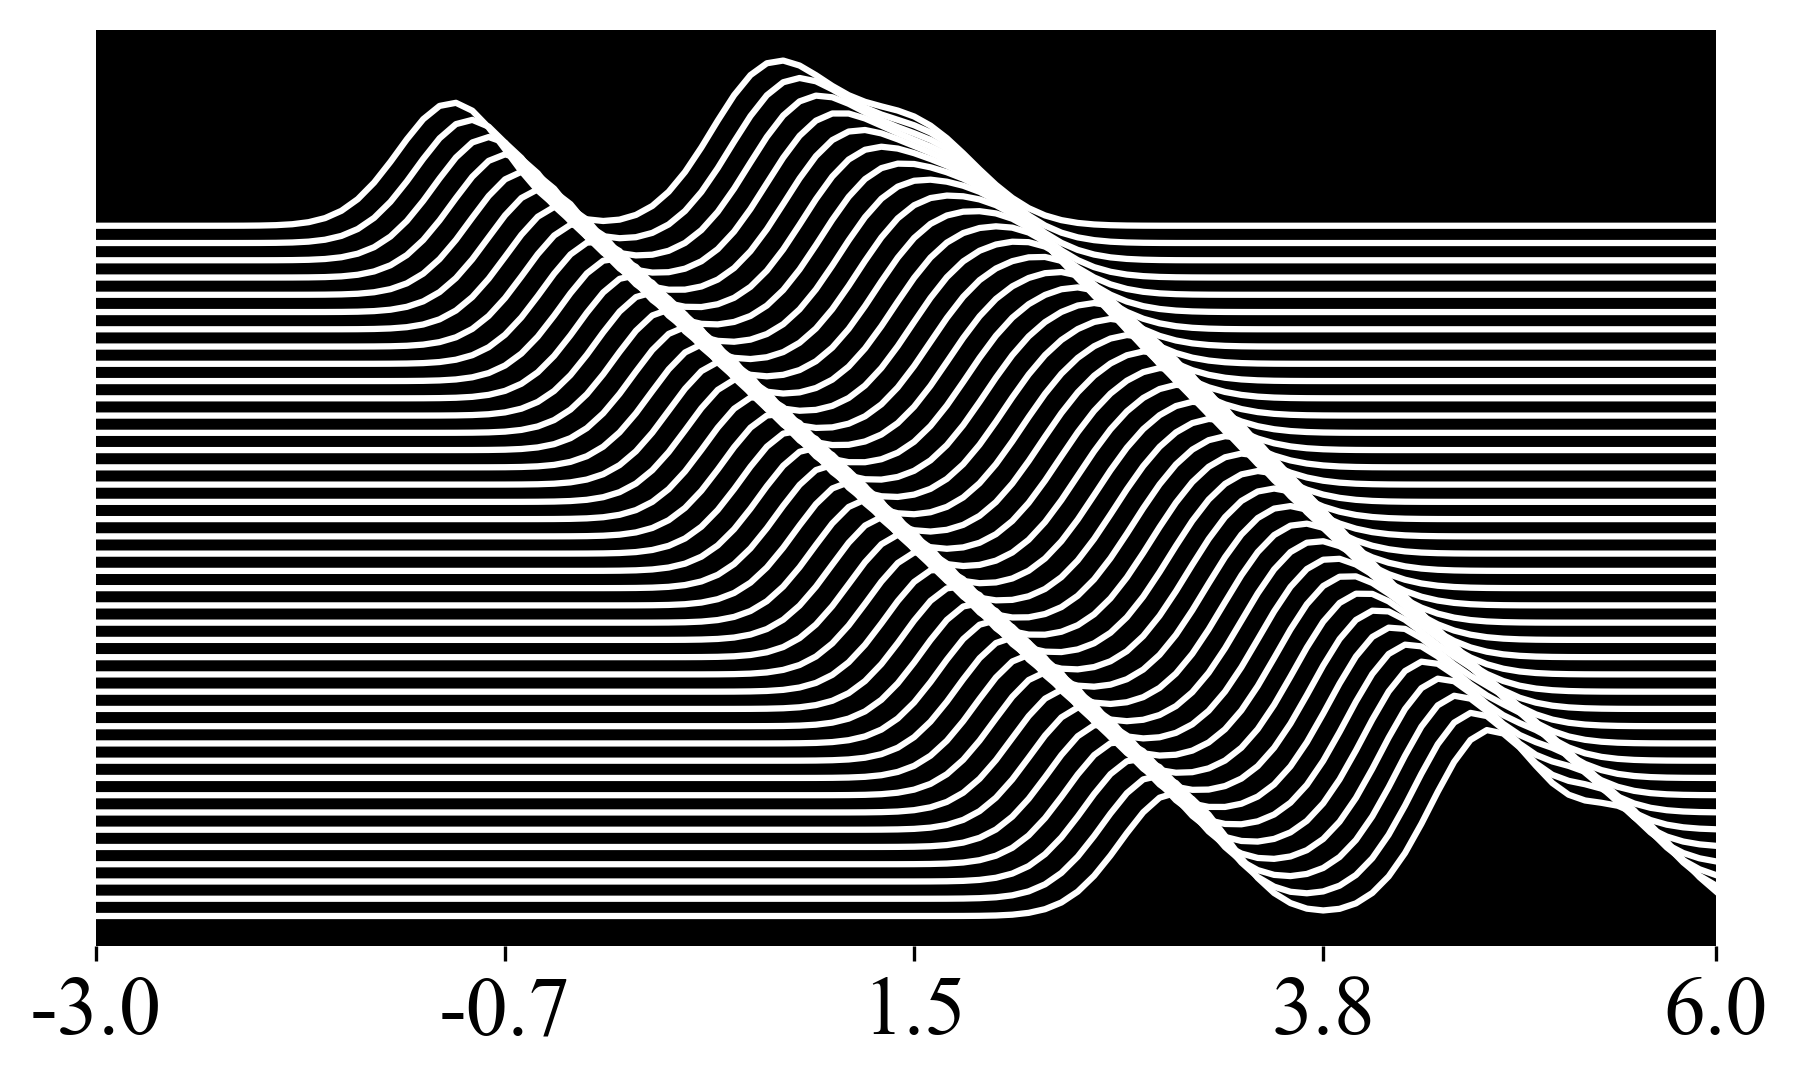
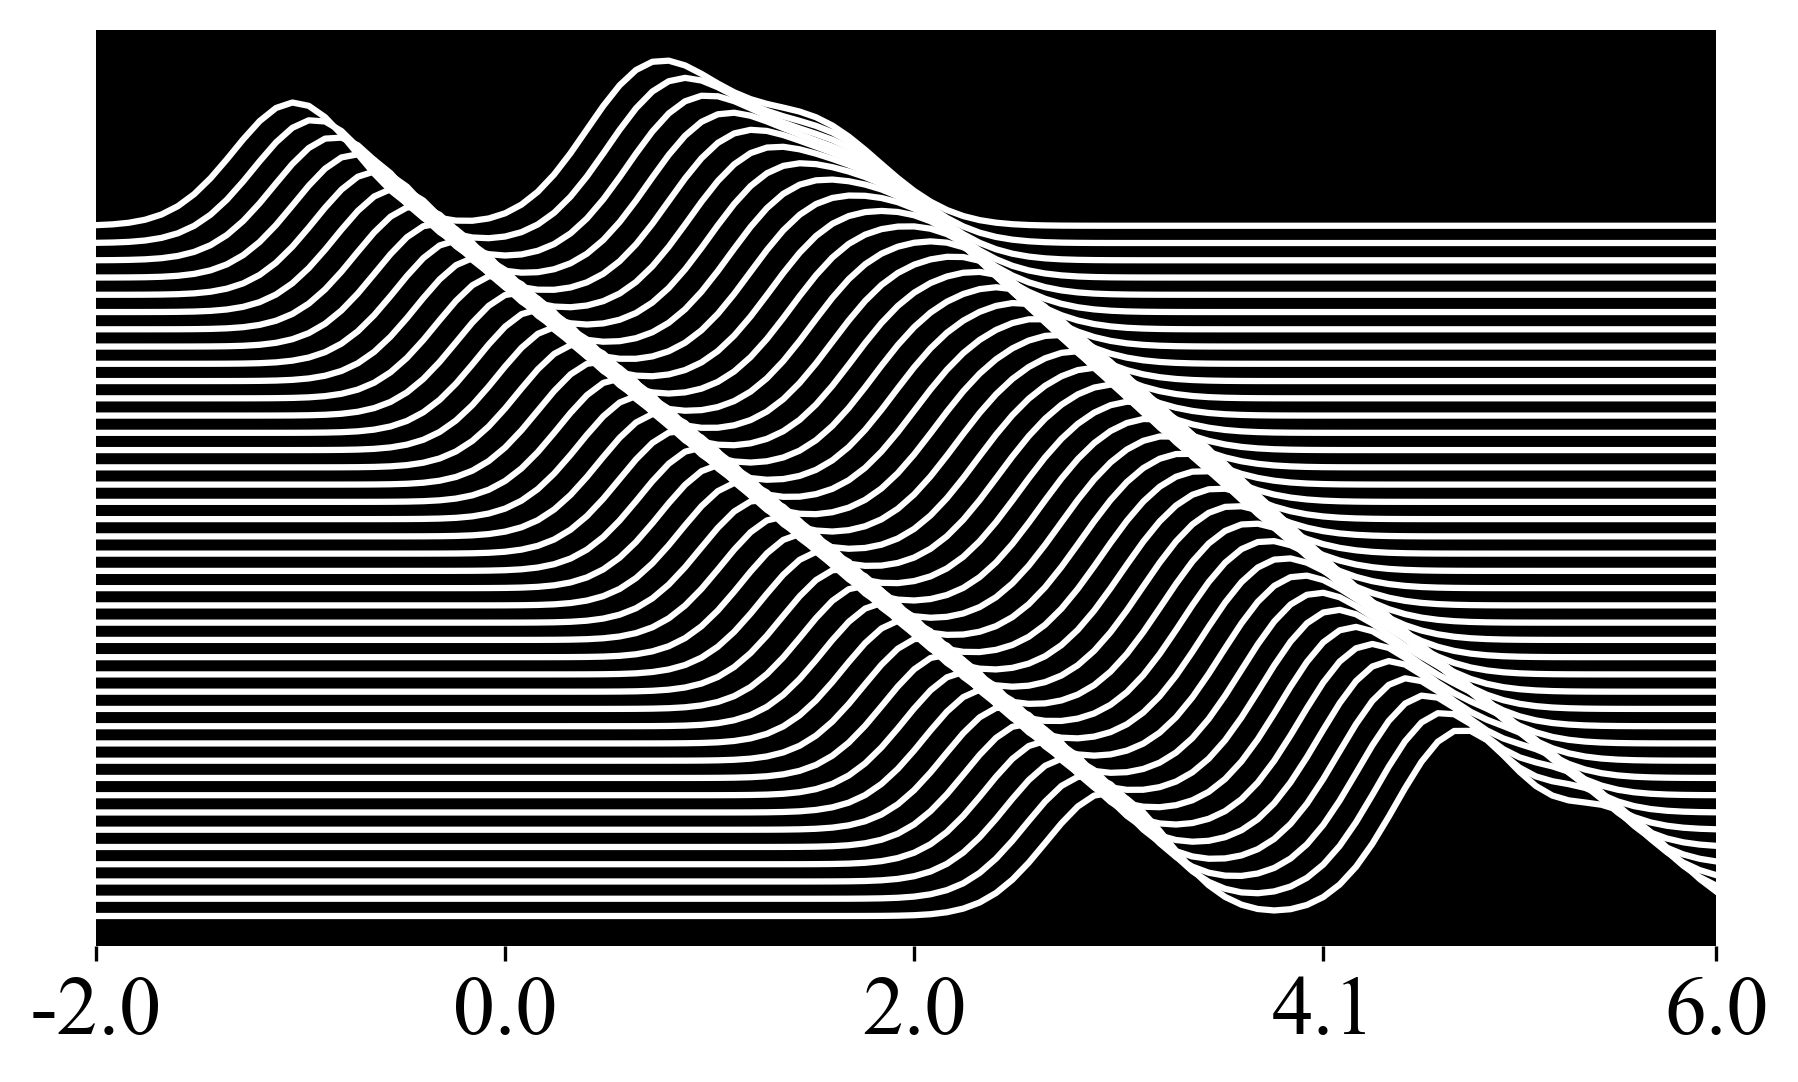
data

diff --git a/scripts/run_heteroerror_simulation.py b/scripts/run_heteroerror_simulation.py
@@ -33,12 +33,11 @@ import sys
 if __name__ == "__main__":
     # default
     if len(sys.argv) < 6:
-        print("A negative case:")
         # three component negative case
-        sigma_list = [0.3,0.5,1.0] # hetero errors
+        sigma_list = [0.3,0.5,0.7] # hetero errors if negative case
         n = 500
         config = '3'
-        run_cv = 'yes' # note this depends on sigma_list
+        run_cv = '0.27' # note this depends on sigma_list
         cv_granularity = 0.01
     # otherwise take argyments from command line
     else:
@@ -72,7 +71,7 @@ elif config == '2':
     b3 = (0,1)
     pi1 = 0.3
     pi2 = 0.7
-    B_true = [[0,1],[2,1]]
+    B_true = [[0,2],[1,1]]
     alpha_true = [0.3,0.7]
     func = lin_func
     BL = -10
@@ -85,12 +84,30 @@ elif config == '3':
     b3 = (-1,0.5)
     pi1 = 0.3
     pi2 = 0.3
+    B_true = [[3,1,-1],[-1,1.5,0.5]]
+    alpha_true = [0.3,0.3,0.4]
+    func = lin_func
+    BL = -10
+    BR = 10
+    x_list = [-1.5,0,1.5]
+elif config == '3-negative':
+    #----------- configuration 3-negative -----#
+    
+    # redefine sigma_list because this is a negative case
+    sigma_list = [0.3,0.5,0.1]
+    
+    b1 = (3,-1)
+    b2 = (1,1.5)
+    b3 = (-1,0.5)
+    pi1 = 0.3
+    pi2 = 0.3
     B_true = [[4,1,-1],[-1,1.5,0.5]]
     alpha_true = [0.3,0.3,0.4]
     func = lin_func
     BL = -10
     BR = 10
     x_list = [-1.5,0,1.5]
+    
 else:
     sys.exit("Wrong configuration number!")
 
@@ -106,7 +123,7 @@ fname = 'hetero_' + func.__name__[:-4] + str(b1[0]) + '_'+ str(b1[1])+'_'+ str(b
 +'_' +str(b2[1])+'_'+str(int(100*pi1)) +'percent'
 fname = fname.replace('.','dot')
 
-if len(sys.argv) < 6:
+if config[1:] == '-negative':
     fname = fname + '_negative_case'
 
 #-----------------------------------------------------------#
@@ -147,6 +164,7 @@ if run_cv == 'yes':
     cv_sigma_list = np.arange(sigma_min, sigma_max, cv_granularity)
     
     kfold = 5 # number of fold in CV procedure
+    
     CV_result = cross_validation_parallel(X,y,cv_sigma_list,kfold,BL,BR)
     pd.DataFrame(CV_result).to_csv("./../data/{}/CV_result.csv".format(fname), index = False, header = False)
     
@@ -157,7 +175,7 @@ if run_cv == 'yes':
     idx_min = np.argmin(CV_result[:,1])
     CV_min = CV_result[idx_min,1]
     
-    epsilon = 0.01 # epsilon = 0.0 then normal selection
+    epsilon = 0.00 # epsilon = 0.0 then normal selection
     # positive epsilon allows smaller sigma
     
     idx_approx_set = np.argwhere(CV_result[:,1] <= CV_min + epsilon * CV_min)

diff --git a/scripts/run_ridgeline_plot.py b/scripts/run_ridgeline_plot.py
@@ -136,6 +136,9 @@ elif config == '7':
     func = lin_func
     BL = -10
     BR = 10
+    
+    sigma = 0.5
+    
     continuous_type = 'continuous_multivariate_t'
     fname = continuous_type + str(meanb1[0]) + '_'+ str(meanb1[1])+'_'+ str(meanb2[0]) \
     +'_' +str(meanb2[1])+'_'+str(int(100*pi1)) +'percent'
@@ -153,6 +156,7 @@ elif config == '8':
     BR = 10
     x_list = [-1.5,0,1.5] #x_list for later density plots
     
+    sigma = 0.5
     continuous_type = 'continuous_uniform_circle'
     fname = continuous_type + str(c1[0]) + '_'+ str(c1[1])+'_'+ str(c2[0]) \
     +'_' +str(c2[1])+'_'+str(int(100*pi1)) +'percent'
@@ -200,8 +204,8 @@ elif config == '7':
                         meanb1,covb1, meanb2,covb2,df_,pi1,fname, min_,max_,func, approach = 'true')
 elif config == '8':
     # continuous case
-    min_ = -2
-    max_ = 8
+    min_ = -5
+    max_ = 5
     df_true = density_ridgeline_plot_uniform_circle(x_list_dense,sigma,\
                         c1,r1, c2,r2,pi1,fname, min_,max_,func, approach = 'true')
     
@@ -247,7 +251,7 @@ name_list = ['Truth',r'NPMLE-$\sigma$','NPMLE-CV', 'EM-true']
 
 plot_config_list = [[True, False, False], [False, True, False], [False, False, True]]
 
-if func.__name__ == 'lin_func':
+if func.__name__ == 'lin_func' and float(config) < 7:
     y = np.linspace(min_ -1, max_ + 1, 100)
     plt_index = [0,1,2,3]
 else:
@@ -288,7 +292,7 @@ for ax in fig.axes:
             
         ax.set_xlabel(r'$y$')
         
-axes[0].set_ylabel(r'Covariate')
+axes[0].set_ylabel(r'$x$')
 
 # legend      
 custom_lines = [

diff --git a/scripts/run_multiple_simulations.py b/scripts/run_multiple_simulations.py
@@ -36,10 +36,10 @@ elif exp_type == 'discrete_cv':
 elif exp_type == 'hetero_discrete':
     #  directly run with sigma selected by CV 
     params_ = ' '+'0.3' + ' '+'0.5' + ' '+'0.7' + ' ' + \
-    '500' + ' ' + '1' + ' ' + '0.3'+ ' ' + '0.01' + ' '
+    '500' + ' ' + '1' + ' ' + '0.27'+ ' ' + '0.01' + ' '
     os.system("python " + filename + params_ + '&')
     params_ = ' '+'0.3' + ' ' + '0.5' + ' '+'0.7' + ' ' +\
-    '500' + ' ' + '2' + ' ' + '0.3'+ ' ' + '0.01' + ' '
+    '500' + ' ' + '2' + ' ' + '0.29'+ ' ' + '0.01' + ' '
     os.system("python " + filename + params_ + '&')
     params_ = ' '+'0.3' + ' ' + '0.5' + ' '+'0.7' + ' ' +\
     '500' + ' ' + '3' + ' ' + '0.31'+ ' ' + '0.01' + ' '
